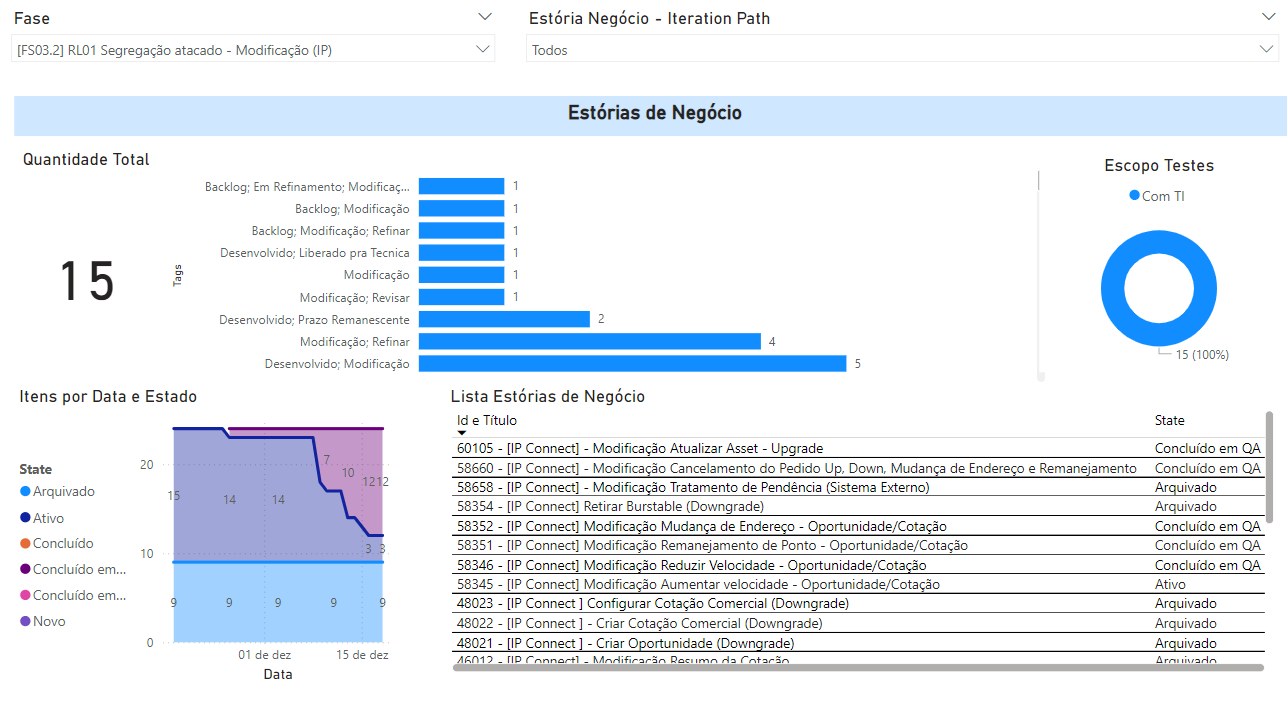
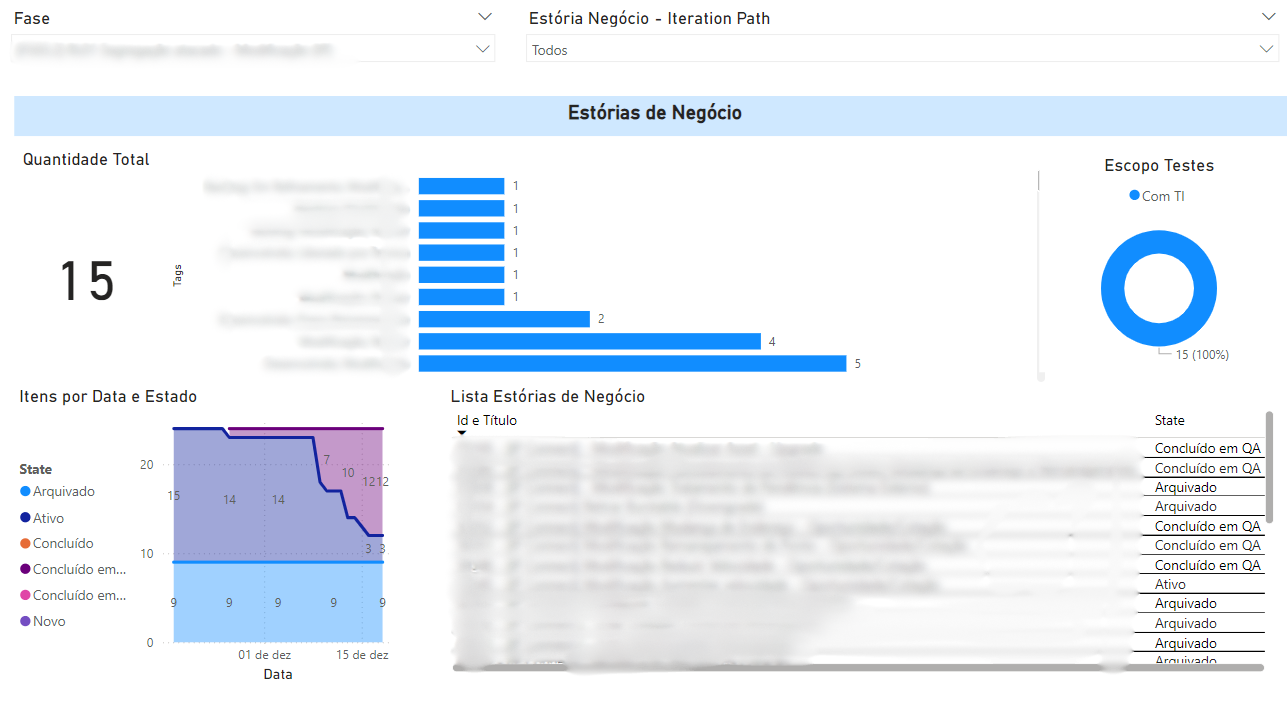
azure

diff --git a/AzureBoard/readme.md b/AzureBoard/readme.md
@@ -34,4 +34,4 @@ Filtros utilizados:
 
 - Os dados são privados, por esse motivo irei postar a imagem desfocada.
 
-![alt text](<Captura de tela 2024-12-18 141007-1.png>)
+![alt text](<Captura de tela 2024-12-18 141007.png>)
